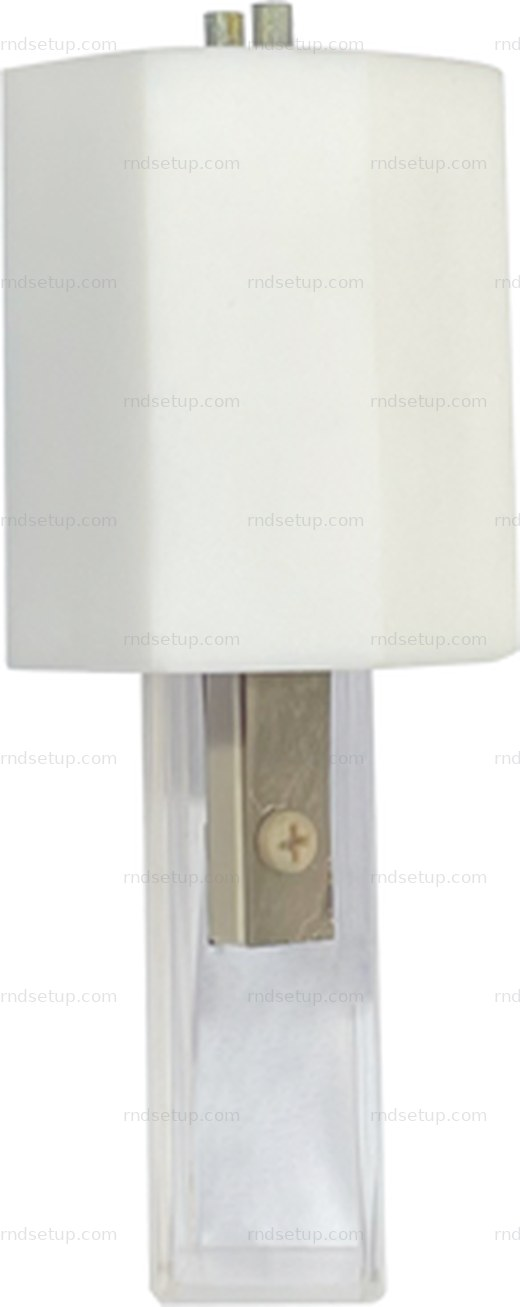
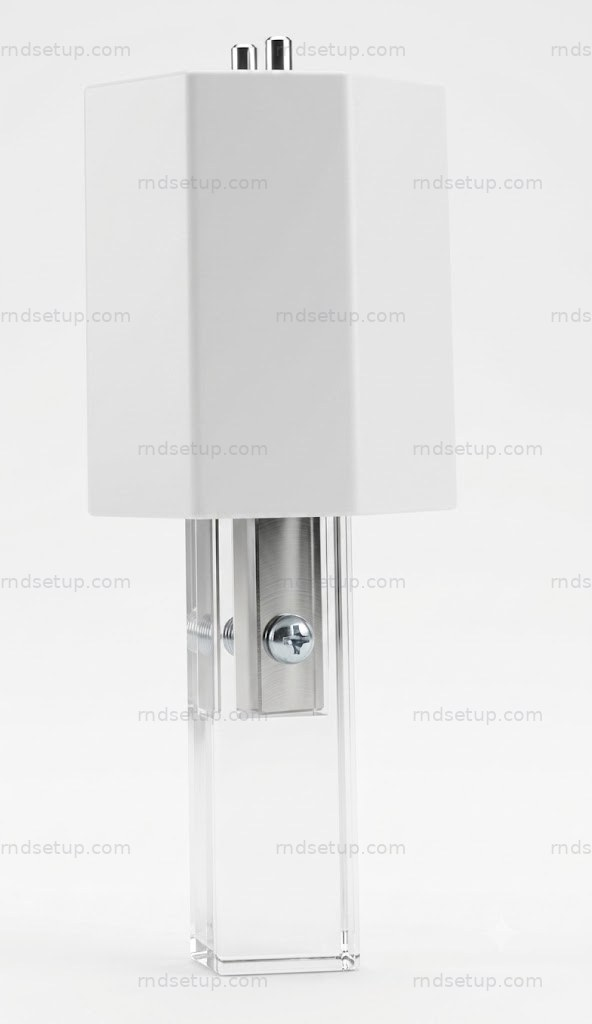
002·004편 히어로 신규 렌더 교체(002 세로형 표시폭 조정)

diff --git a/magazine/insitu-cell-002/index.html b/magazine/insitu-cell-002/index.html
@@ -127,7 +127,7 @@ article.sd-wrap figure img,.sd-bridge img{cursor:zoom-in}
     <h2>CIS-OM-002 — 석영 비커형 인시츄 셀</h2>
     <p><b>현미경용 인시츄 셀 시리즈(CIS-OM)</b>의 입문형입니다. 석영 비커의 투명한 측벽이 그대로 광학 경로가 되어 별도 관찰창 없이 전극을 옆에서 봅니다. 충방전 중 배터리 셀 안에서 일어나는 <b>계면의 변화(덴드라이트 등)</b>를 시각적으로 실시간 관찰하기 위해 만들어졌습니다.</p>
     <figure style="margin:14px 0 6px">
-      <img src="/img/magazine/insitu-002-hero.jpg" alt="CIS-OM-002 석영 비커형 인시츄 셀 제품 사진" loading="lazy" style="display:block;width:100%;max-width:420px;margin:0 auto;border:1px solid var(--line);border-radius:12px;background:#fff">
+      <img src="/img/magazine/insitu-002-hero.jpg" alt="CIS-OM-002 석영 비커형 인시츄 셀 제품 사진" loading="lazy" style="display:block;width:100%;max-width:260px;margin:0 auto;border:1px solid var(--line);border-radius:12px;background:#fff">
     </figure>
     <div class="msc-dl">
       <div class="ic">PDF</div>
